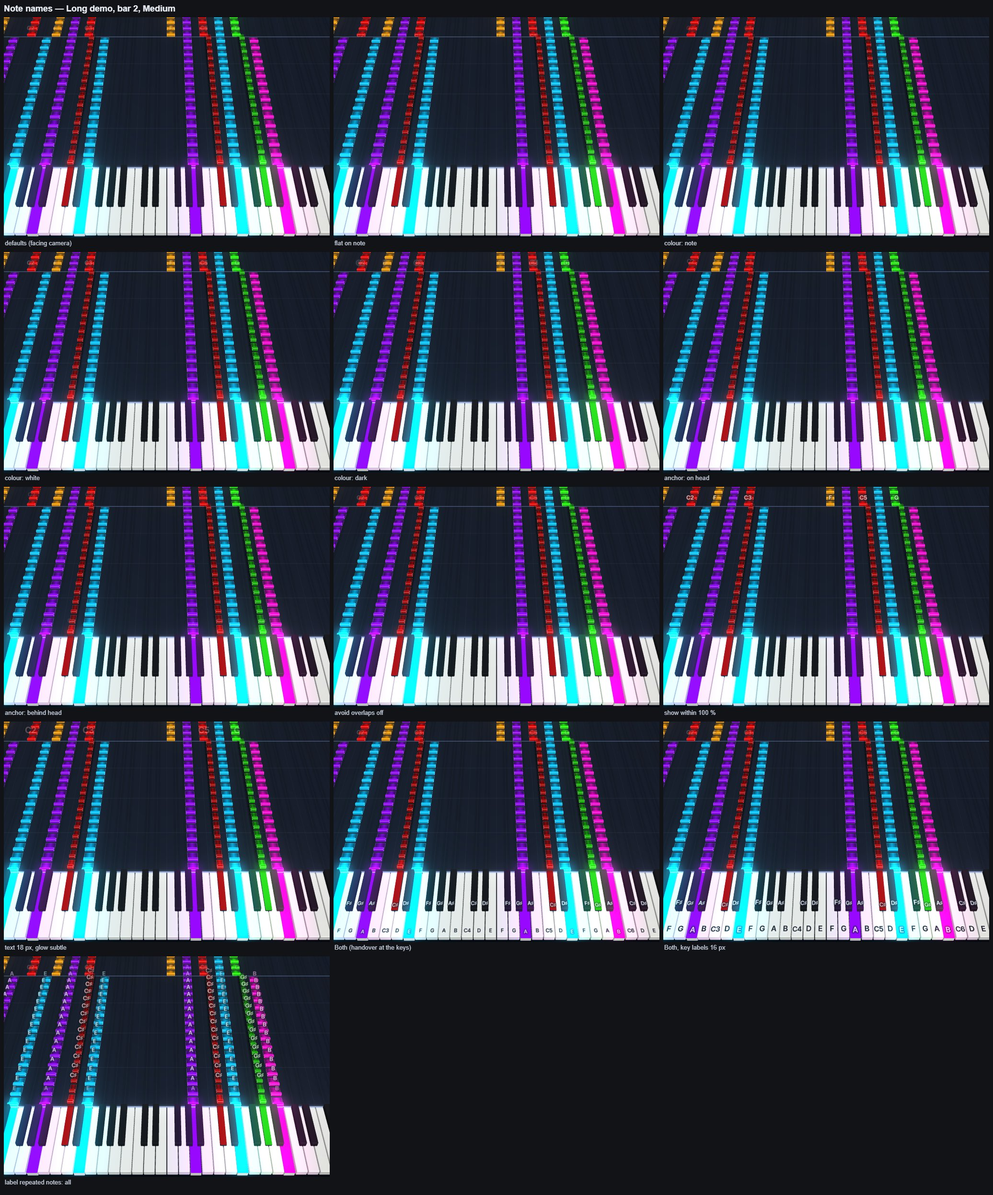
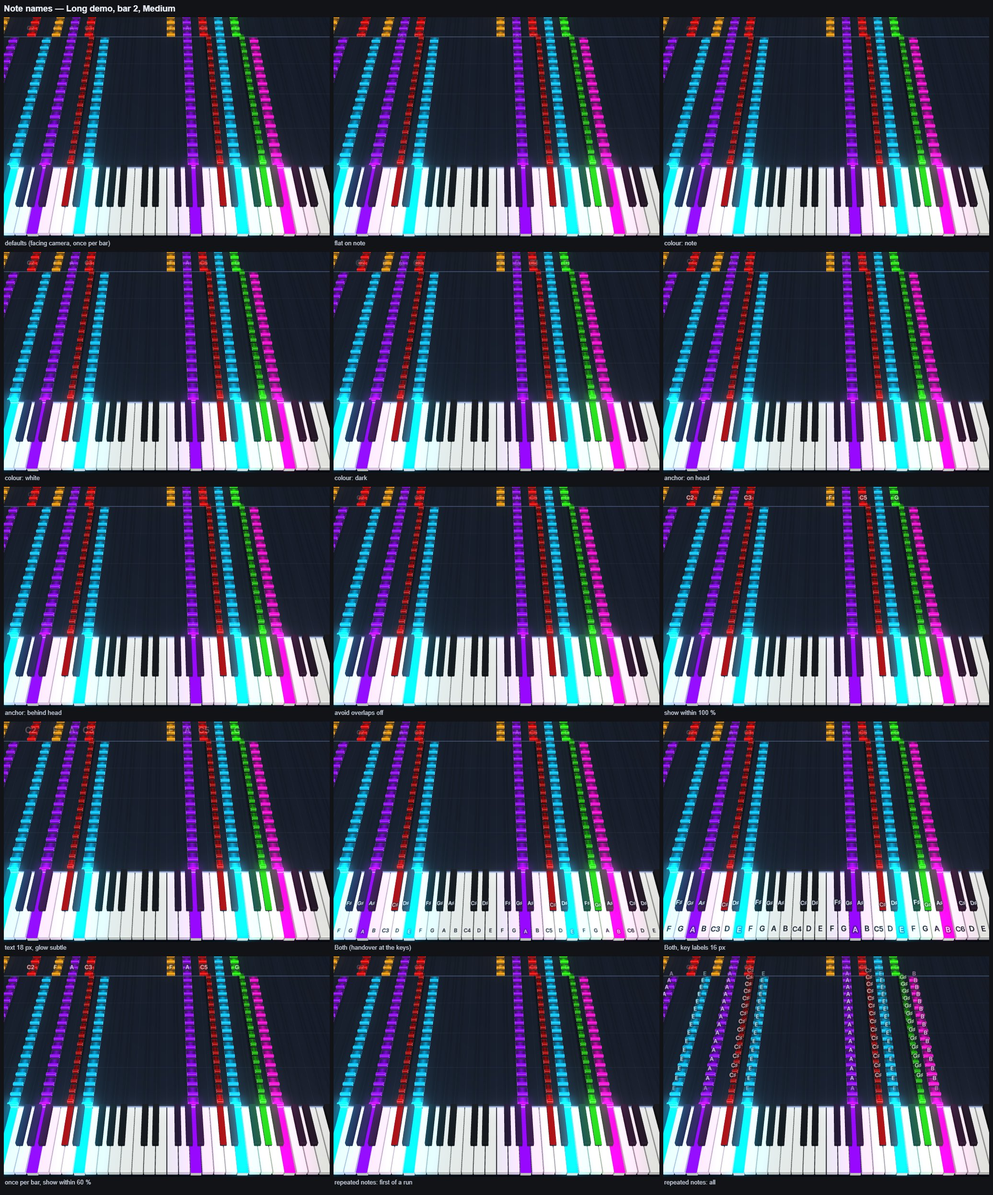
docs: Milestone 12 (benchmark mode) on the roadmap; round-6 sheets; brief

diff --git a/docs/brief.md b/docs/brief.md
@@ -213,14 +213,15 @@ Unscheduled ideas and the reasoning behind this order live in `docs/roadmap.md`.
     - **Hot core:** bright in the _middle_ — a clearly filled body with a narrow white-hot centre band, a warmer tint of the note colour, deep saturated colour at full strength out to the edges (never a thin filament); hottest at the head, cooling slightly toward the tail. When see-through, the body stays filled and the white band fades least.
     - **Glass:** a tinted glass block — a note-coloured body you can see into (fairly solid at 0 % transparency), one continuous soft streak along the whole note, off centre (never repeating blotches), a thin visible rim (at least ~1.5 px); with 3D heads the top face is lighter than the sides.
     - **Outline:** dark interior, a border at the note colour's full brightness, never thinner than ~1.5 px (milestone 9's first "Neon"; stored values migrate).
-    - **Neon:** a neon-sign tube inset just inside the edge — near-white core line, saturated note colour falling off both sides, a note-coloured haze filling the inside, brighter toward the tube — all drawn in the note itself, so it reads at quality Off; the glow scene adds the halo; optional flicker (off by default; still while paused and under reduced motion).
+    - **Neon:** a neon-sign tube inset just inside the edge — near-white core line, saturated note colour falling off both sides, a note-coloured haze filling the inside, brighter toward the tube — all drawn in the note itself, so it reads at quality Off; the glow scene adds the halo, in the tube's saturated note colour (near-white stays in the core line only); optional flicker (off by default; still while paused and under reduced motion).
     - **Diagonal stripes:** settings per use (head fill, sustain fill, each cage): stripe A and B colours (notes: note colour / darker note colour / custom; cages: custom), A and B opacity, width (world units, shown in mm), balance (share that is A, 20–80 %), angle (−75° to 75°, default 45°) and drift (default off). Edges are box-filtered with screen-space derivatives, and stripes narrower than ~2 px blend into the A/B average, so there is no moiré or shimmer at any distance.
-    - **Smoke:** soft wisps stretched along the note, drifting toward the tail.
+    - **Smoke:** soft, billowing, low-contrast clouds of the clean note colour (lighter at their centres, never darker or greyer), see-through gaps (alpha toward the highway, never darkened), feathered edges; noise sampled at the same scale both ways in world space, scaled to the lane, so it reads as puffs, not streaks; slow drift toward the tail.
+    - **Glass is being replaced** (round 6): candidates Crystal (faceted Voronoi shards in lighter and darker tints with bright facet edges, still), Bubbles (a translucent body with small bright bubbles of varied sizes rising toward the tail) and Liquid (soft moving ripples, like light through water). The one picked replaces Glass and stored or look "glass" values migrate to it; the others are removed.
     - Every fill reads at quality Off; bloom only adds the halo.
     - Outline and Neon draw their own edge, so the edge glow settings are greyed out (with that hint) while both fills are one of them.
     - Patterns are computed in each note's own lane and world-length coordinates, never screen-aligned. Every fill respects both sustain transparency settings, linearly; glow and every additive part of a fill scale with the note's opacity.
 113. **Note light:** an edge rim on heads and sustains (constant world width, following perspective and taper); a note-on pulse on the key overlay and the whole note (amount, decay in ms, velocity-scaled; after a seek or loop wrap only notes starting after the jump pulse, like decision 9; seeking while paused never starts a pulse); sounding notes glow brighter, with optional breathing.
-114. **Note names:** off / on notes / under the keys / both; the octave on every C or on all notes; sharps or flats. Drawn in the UI font (Inter Tight semibold) from an atlas holding text and a soft halo — never a box. **On notes:** label style _Facing camera_ (default: upright, a constant size on screen, never stretched) or _Flat on note_ (lying on the note, as wide on screen as a facing label); text size 10–18 px (default 12); text colour Auto (the note colour tinted ~75 % toward white) / Note colour (lifted ~30 % toward white, so it separates from its own note) / White / Dark, with a soft halo (dark, or light behind dark text, at least 85 % there so it never reads dark-on-dark; "Text shadow" 0–100 %, default 60 %); "Label repeated notes" _First of a run_ (default) / _All_: a run is consecutive notes of one pitch with no gap over a beat (a quarter, `ppq` ticks), decided from the music once per song, and only its first note is labelled (stack slots then count only labelled notes); shown within a share of the look-ahead (default 40 %) and faded over a further share (default 15 %) — a ramp, never a hard cut, and fully transparent where a label would be under ~8 px; it fades out over the last 5 % before the now line, where (with Both) the key-top label takes over; anchored ahead of the head (default), on it or behind it on the sustain (short notes fall back to on the head), offset along the note (±1 lane width) and raised above it (0–24 px, facing labels); "Avoid overlaps" (default on) — labels never jump around or blink: (1) **stack slots** are decided from the music once per song: notes starting at the same tick in neighbouring lanes (centres under ~1 white-key width apart) take fixed slots in pitch order, each the lowest slot no neighbour holds, a slot lifting the label by one label height + 2 px (flat labels: one label depth along the note), so a label never moves while on screen; (2) the overlap pass is **one-way**: nearest first, a label entering range shows unless it overlaps a shown one (2 px clearance); a hidden label fades in (0.15 s) only once it clears every shown label by 4 px; a shown label stays shown until its handover fade at the now line; (3) a seek, or a change to how labels are laid out, places every label afresh at once, with no fades. Optional subtle glow (on the glow scene, tinted with the note colour). Reduced motion keeps the distance fades; reveals then apply at once. **On keys:** the same font near the front of the key top, moving with the press; "Key label size" 8–16 px on screen (default 11, separate from the note text size), upright on screen and shrunk to fit the key, and a label that would be under ~7 px fades out rather than render a smudge; neutral while the key rests (dark on white keys, light on black), tinted toward the note colour while it's held. The note-label rows stay visible, greyed out with a hint, while names are off or only on keys. No colour by hand (milestone 10).
+114. **Note names:** off / on notes / under the keys / both; the octave on every C or on all notes; sharps or flats. Drawn in the UI font (Inter Tight semibold) from an atlas holding text and a soft halo — never a box. **On notes:** label style _Facing camera_ (default: upright, a constant size on screen, never stretched) or _Flat on note_ (lying on the note, as wide on screen as a facing label); text size 10–18 px (default 12); text colour Auto (the note colour tinted ~75 % toward white) / Note colour (lifted ~30 % toward white, so it separates from its own note) / White / Dark, with a soft halo (dark, or light behind dark text, at least 85 % there so it never reads dark-on-dark; "Text shadow" 0–100 %, default 60 %); "Label repeated notes" _Once per bar_ (default) / _First of a run_ / _All_: a run is consecutive notes of one pitch with no gap over a beat (a quarter, `ppq` ticks), decided from the music once per song; Once per bar labels the run's first note and its first note in each later bar, First of a run only its first note (stack slots are kept per choice, counting only labelled notes); shown within a share of the look-ahead (default 40 %) and faded over a further share (default 15 %) — a ramp, never a hard cut, and fully transparent where a label would be under ~8 px; it fades out over the last 5 % before the now line, where (with Both) the key-top label takes over; anchored ahead of the head (default), on it or behind it on the sustain (short notes fall back to on the head), offset along the note (±1 lane width) and raised above it (0–24 px, facing labels); "Avoid overlaps" (default on) — labels never jump around or blink: (1) **stack slots** are decided from the music once per song: notes starting at the same tick in neighbouring lanes (centres under ~1 white-key width apart) take fixed slots in pitch order, each the lowest slot no neighbour holds, a slot lifting the label by one label height + 2 px (flat labels: one label depth along the note), so a label never moves while on screen; (2) the overlap pass is **one-way**: nearest first, a label entering range shows unless it overlaps a shown one (2 px clearance); a hidden label fades in (0.15 s) only once it clears every shown label by 4 px; a shown label stays shown until its handover fade at the now line; (3) a seek, or a change to how labels are laid out, places every label afresh at once, with no fades. Optional subtle glow (on the glow scene, tinted with the note colour). Reduced motion keeps the distance fades; reveals then apply at once. **On keys:** the same font near the front of the key top, moving with the press; "Key label size" 8–16 px on screen (default 11, separate from the note text size), upright on screen and shrunk to fit the key, and a label that would be under ~7 px fades out rather than render a smudge; neutral while the key rests (dark on white keys, light on black), tinted toward the note colour while it's held. The note-label rows stay visible, greyed out with a hint, while names are off or only on keys. No colour by hand (milestone 10).
 115. **Cage renderer:** regions on the highway (tick range × key range, or full width) with a border (width, colour, glow, corner radius) and a fill (the note fill styles, colour, opacity), drawn under the notes — and never through them: the notes mark the stencil buffer first, so a translucent note shows the highway, not a cage fill — perspective-correct, clipped at the now line (no border at the clip). Regions can be replaced at runtime and may leave their start or end open, so milestone 10's per-hand, per-bar cages join without lines between bars.
 116. **Pedal cage:** sustain pedal periods (assigned channels, merged) form a full-width cage; its default style is decision 13's band.
 117. **Now-line effects:** on note-on (one or several): sparks, scaling sparks, flame burst, explosion (flash ring + debris), glitter puff; while a note sustains: none, glow, embers, small flames, smoke wisps. Each with size, count, lifetime, spread and velocity scaling, coloured by pitch. Particles move on the GPU from their spawn data, in one ring-buffer pool the size of the quality preset's budget, so under load the oldest go first; smoke blends differently and has its own pool of a quarter of the budget. Reduced motion: one still flash per onset and no sustain particles.

diff --git a/docs/roadmap.md b/docs/roadmap.md
@@ -19,6 +19,7 @@ Living document. The brief (`docs/brief.md`) records _decided_ scope; this file 
 | 9.5 | **Playlist mode** _(design session first)_   | Full songs back-to-back as background music with the highway as a visualizer: playlists per profile, shuffle/repeat, crossfade, listening-mode UI (show / minimal / hidden); not logged as practice                                                                                       |             |
 | 10  | **Hand caging**                              | Per-bar hand-position look-ahead (design session first, using code from the Unity app)                                                                                                                                                                                                    |             |
 | 11  | **Tablet, MIDI out, offline**                | (was milestone 6) Touch UI, performance pass, MIDI out, service worker / offline; load piano samples in two passes (middle octaves first) if song/dialog loading still lags on GitHub Pages                                                                                               |             |
+| 12  | **Benchmark mode** _(spec first)_            | A built-in, repeatable performance test for any device (PC, laptop, iPad, desktop build): scripted songs and presets, frame/CPU/GPU timings, device info, results screen with export and local history                                                                                    |             |
 
 ### Why this order
 
@@ -27,7 +28,8 @@ Living document. The brief (`docs/brief.md`) records _decided_ scope; this file 
 - **Loop editor after bookmarks (7 → 8):** an A–B selection and a bookmark are the same thing in different clothes; the overview is the natural place to create and edit them.
 - **Visual polish after the features settle (9):** post-processing and shader styles change how everything looks; doing them once the screens and scene are stable avoids re-tuning. Quality presets keep tablets smooth.
 - **Hand caging (10)** is exploratory and independent — it can move earlier if it becomes the priority.
-- **Tablet pass last (11)**, but with a quick iPad check at the end of every milestone so problems surface early.
+- **Tablet pass (11)**, with a quick iPad check at the end of every milestone so problems surface early.
+- **Benchmark mode last (12):** it measures the finished app on every device, so it comes after the tablet and performance pass.
 
 ## Backlog — idea details
 
@@ -141,6 +143,30 @@ Play full songs back-to-back as background music, with the piano and highway as 
 
 - Look-ahead visualization of where each hand needs to be per bar (a "cage" spanning the hand's key range).
 - Design session first: review the approach from the Unity app (code to be provided), decide range computation, transitions between bars, and how it's drawn on the highway/keyboard.
+
+### Benchmark mode _(milestone 12, the final milestone; spec to be written when we reach it)_
+
+A built-in, repeatable performance test that can be run on any device (PC, laptop, iPad, a desktop build), with results collected.
+
+- **Where:** main Settings, in a "Benchmark" area under Render/Performance (exact place decided in the spec). A Start button with a short explanation; Esc cancels.
+- **What it runs:** a fixed, scripted sequence:
+  - bundled test songs: a normal piece and the dense-chord stress passage;
+  - a fixed camera and a fixed look;
+  - each quality preset (Off / Low / Medium / High), interleaved and repeated so drift hits all presets alike;
+  - a short warm-up first.
+- **What it measures:**
+  - frame interval (median, p95, p99, dropped frames);
+  - engine CPU per frame, and GPU time where the timer query exists;
+  - draw calls, particle counts, bloom availability;
+  - load times (song, samples).
+- **Device info:**
+  - browser and user agent, GPU renderer string (where available);
+  - screen size and pixel ratio, CPU cores, device memory;
+  - device class (desktop/tablet), app version and commit.
+- **Output:**
+  - a results screen (a table per preset);
+  - Export (.json, a stable documented format) and Copy summary (short text);
+  - results kept locally with a history, so runs can be compared.
 
 ## Other ideas (unscheduled)
 
